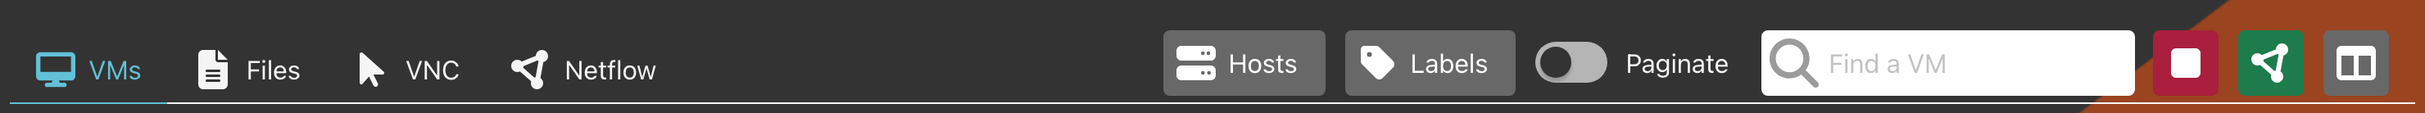
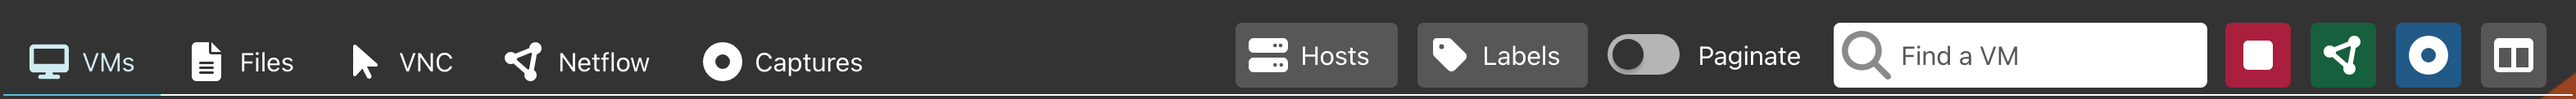
docs: capture the netflow toolbar and jobs menu images
Add capture tests for exp_netflow_button and jobs_menu, and retake the two images, which showed an older header and toolbar. The jobs_menu test gives its own sample jobs of the bennu experiment, so the header of the other images shows no jobs. The netflow alt text now names the Captures tab and the capture button.

diff --git a/src/js/e2e/docs-screenshots/capture.spec.js b/src/js/e2e/docs-screenshots/capture.spec.js
@@ -578,6 +578,111 @@ test('navbar', async ({ page }) => {
   await shoot(page.locator('nav.navbar'), 'navbar');
 });
 
+// The background jobs of GET /jobs, newest first: two running, a file archive
+// of bennu with its zip, and a shutdown that partly succeeded.
+const job = (id, fields) => ({
+  id,
+  kind: 'vms.action',
+  owner: 'admin@example.com',
+  cancelable: true,
+  updated: fields.created,
+  revision: 3,
+  ...fields,
+});
+const BENNU_JOBS = {
+  jobs: [
+    job('j4c1e9a07b3d2f851', {
+      experiment: 'bennu',
+      title: 'Restart 4 VMs',
+      params: { action: 'restart' },
+      status: 'running',
+      progress: { done: 1, total: 4 },
+      items: [
+        { name: 'site-1-hmi', status: 'succeeded' },
+        { name: 'elasticsearch', status: 'running' },
+        { name: 'fep', status: 'pending' },
+        { name: 'web', status: 'pending' },
+      ],
+      created: '2026-09-29T15:46:40Z',
+      started: '2026-09-29T15:46:40Z',
+    }),
+    job('j9b27d4e1c08a6f35', {
+      kind: 'disk.clone',
+      title: 'Clone ubuntu-22.04-base.qc2 to ubuntu-22.04-hmi.qc2',
+      params: {
+        disk: '/phenix/images/ubuntu-22.04-base.qc2',
+        new: '/phenix/images/ubuntu-22.04-hmi.qc2',
+      },
+      status: 'running',
+      progress: {
+        done: 0,
+        total: 1,
+        bytes: 1288490188,
+        bytesTotal: 2040109465,
+      },
+      items: [{ name: 'ubuntu-22.04-hmi.qc2', status: 'running' }],
+      created: '2026-09-29T15:45:12Z',
+      started: '2026-09-29T15:45:12Z',
+    }),
+    job('j2f8a61c5d94e0b7a', {
+      kind: 'files.archive',
+      experiment: 'bennu',
+      title: 'Archive 3 files of bennu',
+      status: 'succeeded',
+      cancelable: false,
+      progress: { done: 3, total: 3, bytes: 53139455, bytesTotal: 53139455 },
+      items: [
+        'ids-sensor_1_20260929154512_7c1d.pcap',
+        'soh-report.json',
+        'historian_0_20260929153001_2b8e.pcap',
+      ].map((name) => ({ name, status: 'succeeded' })),
+      artifact: { name: 'bennu-files.zip', size: 48916582 },
+      created: '2026-09-29T15:41:03Z',
+      started: '2026-09-29T15:41:03Z',
+      finished: '2026-09-29T15:41:09Z',
+    }),
+    job('j7d03b9e2a15c4f68', {
+      experiment: 'bennu',
+      title: 'Shut down 2 VMs',
+      params: { action: 'shutdown' },
+      status: 'partial',
+      cancelable: false,
+      progress: { done: 2, total: 2 },
+      items: [
+        { name: 'historian', status: 'succeeded' },
+        {
+          name: 'ot-sim-2',
+          status: 'failed',
+          error: 'vm ot-sim-2 is locked with status snapshotting',
+          retryable: true,
+        },
+      ],
+      created: '2026-09-29T15:32:18Z',
+      started: '2026-09-29T15:32:18Z',
+      finished: '2026-09-29T15:33:02Z',
+    }),
+  ],
+  total: 4,
+};
+
+// The open jobs menu, with BENNU_JOBS; opening it marks the finished jobs
+// viewed, so the button is no longer colored.
+test('jobs_menu', async ({ page }) => {
+  await open(page, '/experiments', { 'GET /jobs': BENNU_JOBS });
+  await page
+    .getByRole('button', { name: /^Background jobs \(2 jobs running/ })
+    .click();
+  const panel = page.locator('.jobs-menu .dropdown-menu');
+  await expect(panel.getByText('Shut down 2 VMs')).toBeVisible();
+  await expect(
+    page.getByRole('button', { name: 'Background jobs (2 jobs running)' }),
+  ).toBeVisible();
+  // off the button, which has a lighter border under the pointer
+  await page.mouse.move(800, 800);
+  await settled(page);
+  await shootRegion(page, [page.locator('.nav-tools'), panel], 'jobs_menu');
+});
+
 // A minimega console session in bennu's namespace, as `phenix mm --attach`
 // prints it, with `vm info` listing the sample VMs that minimega runs.
 function consoleSession() {
@@ -1037,6 +1142,22 @@ test.describe('running experiment', () => {
       has: page.getByRole('button', { name: 'site-1-hmi', exact: true }),
     });
     await shoot(row, 'vm_capture_taps');
+  });
+
+  // The tabs and the toolbar of the running bennu, with the netflow button
+  // right of the stop button.
+  test('exp_netflow_button', async ({ page }) => {
+    await openRunning(page, 900);
+    await expect(
+      page.getByRole('button', { name: 'Start netflow capture' }),
+    ).toBeVisible();
+    await page.evaluate(() => document.activeElement?.blur());
+    await shootRegion(
+      page,
+      [page.locator('.exp-toolbar'), page.locator('.b-tabs > nav.tabs')],
+      'exp_netflow_button',
+      2,
+    );
   });
 
   test('vm_kill_confirm', async ({ page }) => {

diff --git a/src/js/e2e/docs-screenshots/README.md b/src/js/e2e/docs-screenshots/README.md
@@ -62,11 +62,16 @@ page needs in `fixtures.json`, or pass a variant to `open()`, as `empty_table`
 does. Set `DOCS_SCREENSHOTS_DEBUG=1` to log each API request and websocket
 message that no sample answers. `console_tab` answers the console requests and
 the console websocket in its own test. `webshark_empty` answers the features
-request and `/webshark/watch` in its own test. The VNC images
+request and `/webshark/watch` in its own test. `jobs_menu` answers
+`GET /jobs` with the jobs in its own test, so that the header of the other
+images shows no jobs. Check that list against the `Job` schema of
+`openapi.yml` when you change it: the Go test reads only `fixtures.json`.
+The VNC images
 (`vnc_console_split`, `vnc_tiles`, `vnc_actions_menu` and
 `vnc_forwards_panel`) use the stand-in experiment and RFB servers of
 `tests/vnc-support.js`. The live console on a VM details card uses its RFB
 servers through `standInConsoles`.
 `vm_role_denied` signs in with the Experiment User role. Other images of
 WebShark and the State of Health graph itself need live data, so they are
-still taken by hand.
+still taken by hand. `name_kind` shows the open list of a native drop-down,
+which a headless browser does not draw, so it is also taken by hand.

diff --git a/docs/content/netflow.md b/docs/content/netflow.md
@@ -35,7 +35,7 @@ box, beside the red button that stops the experiment. Its tooltip reads
 `Start Netflow Capture`. Clicking it starts netflow capture on the bridge the
 experiment is configured to use, for all VM network interfaces.
 
-![Running experiment toolbar with the VMs, Files, VNC and Netflow tabs, the Hosts, Labels and Paginate controls, a Find a VM box, and the stop, netflow and column picker buttons.](images/exp_netflow_button.png){: width=800 .center}
+![Running experiment toolbar with the VMs, Files, VNC, Netflow and Captures tabs, the Hosts, Labels and Paginate controls, a Find a VM box, and the stop, netflow, capture and column picker buttons.](images/exp_netflow_button.png){: width=800 .center}
 
 Once the capture is running, the button turns red and its tooltip reads
 `Stop Netflow Capture`. Click it to stop the capture. A capture also stops on
